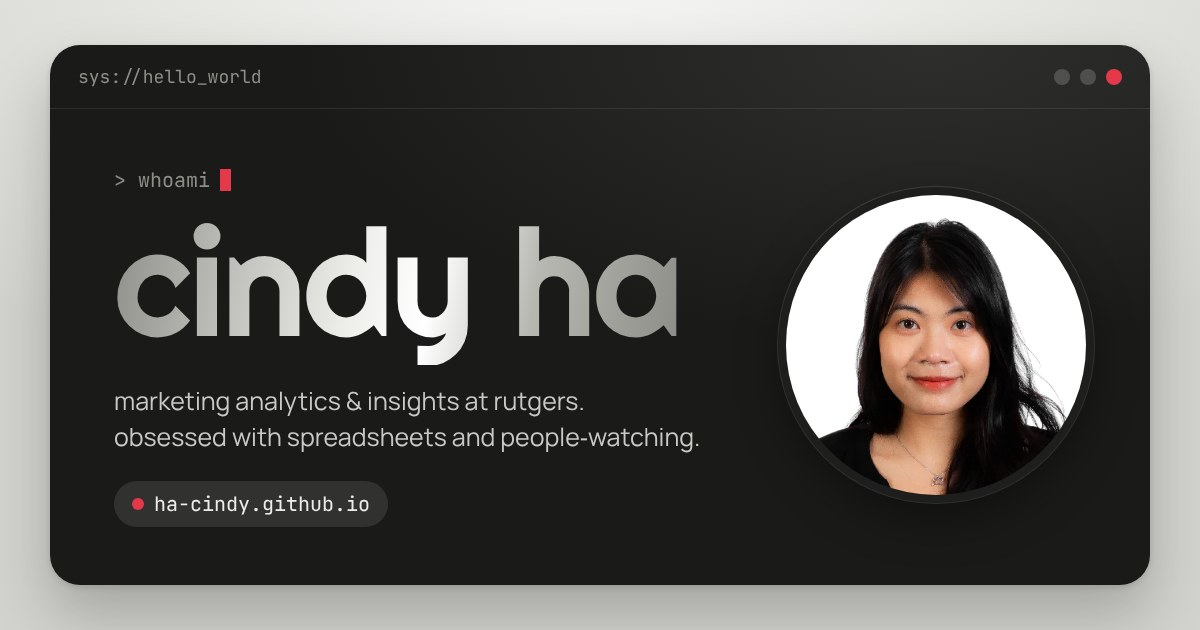
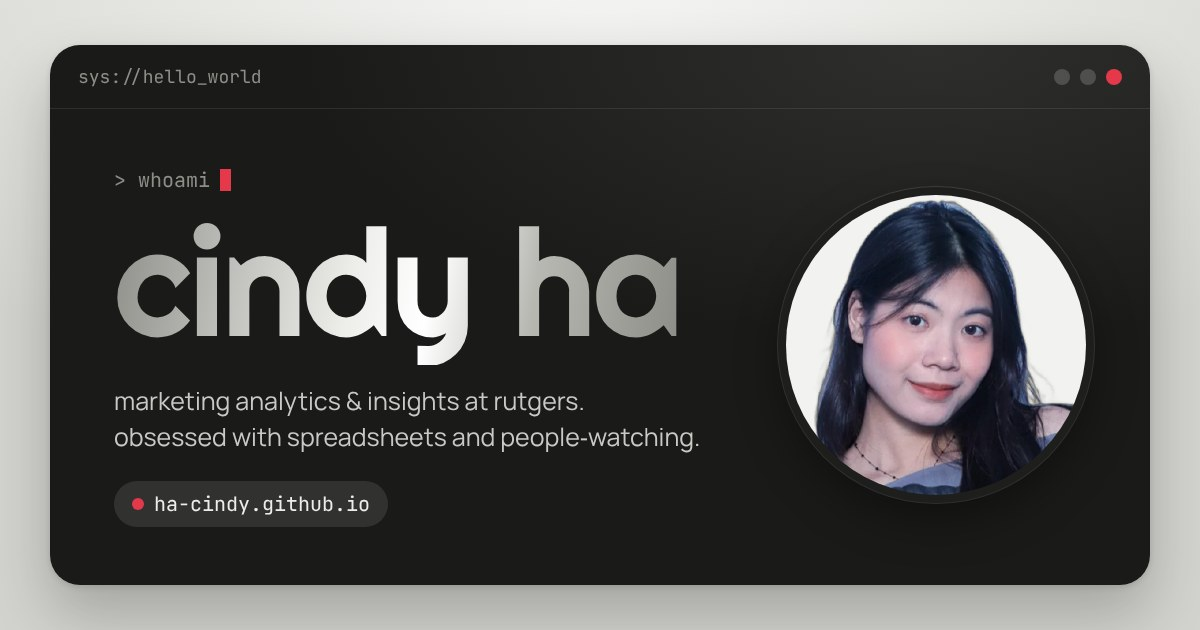
New headshot; Zuzu is now a white and grey cat with a red scarf
- New photo with the blue backdrop replaced by a soft off-white (clean
  cutout, edge spill removed, slightly warmed); hero and link preview
  image both use it
- Zuzu: white fur with grey patches, red scarf that flaps while she runs;
  faster follow and roam speed and quicker steps; sleep state unchanged

Claude-Session: https://claude.ai/code/session_01NYZvgzzkmfqJndcjzFSi4a

Changed region(s): [[0.6783, 0.3016, 0.8942, 0.7841]]

diff --git a/assets/js/site.js b/assets/js/site.js
@@ -69,23 +69,30 @@
   var zuzuBtn = document.querySelector('[data-zuzu-toggle]');
   var zuzuOn = store('zuzu') !== 'off' && !reduceMotion;
   var CAT_WALK = '<svg class="zuzu__walk" viewBox="0 0 48 36" aria-hidden="true">' +
-    '<path class="zuzu__tail" d="M10 19 C4 17 2 11 5 5" fill="none" stroke-width="3.2" stroke-linecap="round"/>' +
-    '<g class="zuzu__legs zuzu__legs--a"><rect x="13" y="22" width="3.4" height="11" rx="1.7"/><rect x="31" y="22" width="3.4" height="11" rx="1.7"/></g>' +
-    '<g class="zuzu__legs zuzu__legs--b"><rect x="17" y="22" width="3.4" height="11" rx="1.7"/><rect x="35" y="22" width="3.4" height="11" rx="1.7"/></g>' +
-    '<ellipse cx="24" cy="20" rx="15" ry="8"/>' +
-    '<circle cx="38.5" cy="12.5" r="7"/>' +
-    '<path d="M33 9 L34 1.5 L38.5 6.5 Z"/><path d="M39.5 6.2 L43.8 1.6 L44.6 9.4 Z"/>' +
-    '<path class="zuzu__collar" d="M33.4 17.6 Q37 20.6 41.6 18.4" fill="none" stroke-width="2.2" stroke-linecap="round"/>' +
-    '<circle class="zuzu__eye" cx="41.2" cy="11.6" r="1.1"/>' +
+    '<path class="zuzu__tail" d="M10 19 C3 17 1 10 5 4" fill="none" stroke-width="4" stroke-linecap="round"/>' +
+    '<g class="zuzu__legs zuzu__legs--a"><rect class="fur" x="13" y="22" width="3.6" height="11" rx="1.8"/><rect class="fur" x="31" y="22" width="3.6" height="11" rx="1.8"/></g>' +
+    '<g class="zuzu__legs zuzu__legs--b"><rect class="fur" x="17" y="22" width="3.6" height="11" rx="1.8"/><rect class="fur" x="35" y="22" width="3.6" height="11" rx="1.8"/></g>' +
+    '<ellipse class="fur" cx="24" cy="20" rx="15" ry="8"/>' +
+    '<path class="patch" d="M12 15 C15 11 24 11 28 13 C25 17 17 18 12 15 Z"/>' +
+    '<circle class="fur" cx="38.5" cy="12.5" r="7"/>' +
+    '<path class="patch" d="M33 9 L34 1.5 L38.5 6.5 Z"/><path class="patch" d="M39.5 6.2 L43.8 1.6 L44.6 9.4 Z"/>' +
+    '<path class="patch" d="M32.2 10.5 C33 6.4 36.6 5.5 39 6.4 C38 9 35 11 32.2 10.5 Z"/>' +
+    '<path class="zuzu__scarf" d="M32.6 17.2 Q37.4 21.4 42.4 17.8 L42.6 20 Q37.2 23.6 32.4 19.4 Z"/>' +
+    '<path class="zuzu__scarf zuzu__scarf-tail" d="M34.4 19.6 L31.6 26.4 L34.6 25.8 L36.6 20.6 Z"/>' +
+    '<circle class="zuzu__eye" cx="41.2" cy="11.6" r="1.1"/><circle class="zuzu__nose" cx="45.2" cy="13.8" r="0.8"/>' +
     '</svg>';
   var CAT_SIT = '<svg class="zuzu__sit" viewBox="0 0 48 36" aria-hidden="true">' +
-    '<path class="zuzu__tail" d="M33 33 C42 33 44 27 40 24" fill="none" stroke-width="3.2" stroke-linecap="round"/>' +
-    '<path d="M14 34 C12 24 16 16 24 16 C32 16 36 24 34 34 Z"/>' +
-    '<circle cx="24" cy="11" r="7"/>' +
-    '<path d="M18 8 L18.6 0.8 L23 5.4 Z"/><path d="M25 5.4 L29.4 0.8 L30 8 Z"/>' +
-    '<path class="zuzu__collar" d="M19.6 16.4 Q24 19 28.4 16.4" fill="none" stroke-width="2.2" stroke-linecap="round"/>' +
+    '<path class="zuzu__tail" d="M33 33 C43 33 44 26 39.5 23.5" fill="none" stroke-width="4" stroke-linecap="round"/>' +
+    '<path class="fur" d="M14 34 C12 24 16 16 24 16 C32 16 36 24 34 34 Z"/>' +
+    '<path class="patch" d="M27 18 C32 19 34.6 25 34 31 C31 29 28.4 23 27 18 Z"/>' +
+    '<circle class="fur" cx="24" cy="11" r="7"/>' +
+    '<path class="patch" d="M18 8 L18.6 0.8 L23 5.4 Z"/><path class="patch" d="M25 5.4 L29.4 0.8 L30 8 Z"/>' +
+    '<path class="patch" d="M24 4 C27.6 4 30.4 6.4 30.8 9.6 C28.4 9.4 25.6 7.6 24 4 Z"/>' +
+    '<path class="zuzu__scarf" d="M18.8 16 Q24 19.6 29.2 16 L29.6 18.4 Q24 22.4 18.4 18.4 Z"/>' +
+    '<path class="zuzu__scarf zuzu__scarf-tail" d="M26.4 19.6 L28.6 26.6 L25.6 26.2 L24.4 20.4 Z"/>' +
     '<circle class="zuzu__eye" cx="21.3" cy="10.4" r="1.05"/><circle class="zuzu__eye" cx="26.7" cy="10.4" r="1.05"/>' +
-    '<rect x="18.5" y="30" width="4" height="4" rx="2"/><rect x="25.5" y="30" width="4" height="4" rx="2"/>' +
+    '<circle class="zuzu__nose" cx="24" cy="12.6" r="0.8"/>' +
+    '<rect class="fur" x="18.5" y="30" width="4" height="4" rx="2"/><rect class="fur" x="25.5" y="30" width="4" height="4" rx="2"/>' +
     '</svg><span class="zuzu__z" aria-hidden="true">z</span>';
   var cat = null, raf = 0, cx = -80, cy = 0, tx = -80, ty = 0, lastMove = 0, roamTimer = 0, mode = finePointer ? 'follow' : 'roam';
 
@@ -96,7 +103,7 @@
   function followLoop() {
     var dx = tx - cx, dy = ty - cy, d = Math.hypot(dx, dy);
     if (d > 46) {
-      var sp = Math.min(4.2, 1.6 + d / 90);
+      var sp = Math.min(7.5, 2.8 + d / 55);
       cx += dx / d * sp; cy += dy / d * sp; face(dx); setState('walk');
     } else {
       setState(performance.now() - lastMove > 7000 ? 'sleep' : 'sit');
@@ -120,7 +127,7 @@
       if (!zuzuOn) return;
       if (!paused && ((dir > 0 && cx >= stopAt) || (dir < 0 && cx <= stopAt))) { paused = true; t0 = ts; setState('sit'); }
       if (paused && ts - t0 > 2600) { paused = false; stopAt = dir > 0 ? w + 60 : -60; }
-      if (!paused) { cx += dir * 1.6; setState('walk'); }
+      if (!paused) { cx += dir * 2.8; setState('walk'); }
       place();
       if ((dir > 0 && cx > w + 50) || (dir < 0 && cx < -50)) { roamTimer = setTimeout(roamOnce, 22000 + Math.random() * 16000); return; }
       raf = requestAnimationFrame(step);

diff --git a/assets/css/site.css b/assets/css/site.css
@@ -730,14 +730,18 @@ body { font-size: 15.5px; }
 .slides { grid-template-columns: repeat(auto-fill, minmax(min(100%, 210px), 1fr)); gap: 16px; }
 .footer { font-size: 12px; }
 
-/* zuzu the cat */
-.zuzu { position: fixed; left: 0; top: 0; width: 48px; height: 36px; z-index: 70; pointer-events: none; will-change: transform; --cat: #2B2B2A; --cat-eye: #F2F2EF; }
-@media (prefers-color-scheme: dark) { :root:not([data-theme="light"]) .zuzu { --cat: #D9D9D5; --cat-eye: #1B1B1A; } }
-:root[data-theme="dark"] .zuzu { --cat: #D9D9D5; --cat-eye: #1B1B1A; }
-.zuzu svg { position: absolute; inset: 0; width: 48px; height: 36px; fill: var(--cat); stroke: var(--cat); stroke-width: 0; overflow: visible; filter: drop-shadow(0 0 1px rgba(255,255,255,0.75)) drop-shadow(0 2px 2px rgba(0,0,0,0.18)); }
-.zuzu svg .zuzu__tail { stroke: var(--cat); }
-.zuzu svg .zuzu__collar { stroke: var(--red); fill: none; }
+/* zuzu the cat: white and grey, red scarf */
+.zuzu { position: fixed; left: 0; top: 0; width: 48px; height: 36px; z-index: 70; pointer-events: none; will-change: transform;
+  --fur: #FBFBF9; --patch: #9C9C97; --line: #6F6F6B; --cat-eye: #2B2B2A; }
+@media (prefers-color-scheme: dark) { :root:not([data-theme="light"]) .zuzu { --line: #3A3A38; } }
+:root[data-theme="dark"] .zuzu { --line: #3A3A38; }
+.zuzu svg { position: absolute; inset: 0; width: 48px; height: 36px; overflow: visible; filter: drop-shadow(0 2px 2px rgba(0,0,0,0.2)); }
+.zuzu svg .fur { fill: var(--fur); stroke: var(--line); stroke-width: 0.9; }
+.zuzu svg .patch { fill: var(--patch); stroke: none; }
+.zuzu svg .zuzu__tail { stroke: var(--patch); }
+.zuzu svg .zuzu__scarf { fill: var(--red); stroke: none; }
 .zuzu svg .zuzu__eye { fill: var(--cat-eye); }
+.zuzu svg .zuzu__nose { fill: #E58A93; }
 .zuzu.is-left svg { transform: scaleX(-1); }
 .zuzu .zuzu__sit, .zuzu .zuzu__z { display: none; }
 .zuzu[data-state="sit"] .zuzu__walk, .zuzu[data-state="sleep"] .zuzu__walk { display: none; }
@@ -745,10 +749,12 @@ body { font-size: 15.5px; }
 .zuzu[data-state="sleep"] .zuzu__eye { transform: scaleY(0.15); transform-box: fill-box; transform-origin: center; }
 .zuzu[data-state="sleep"] .zuzu__z { display: block; position: absolute; left: 30px; top: -8px; font-family: var(--f-mono); font-size: 11px; color: var(--muted); animation: zz 2s ease-in-out infinite; }
 @keyframes zz { 0% { opacity: 0; transform: translate(0, 4px); } 40% { opacity: 1; } 100% { opacity: 0; transform: translate(6px, -8px); } }
-.zuzu[data-state="walk"] .zuzu__legs--a { animation: legA 0.32s steps(2) infinite; }
-.zuzu[data-state="walk"] .zuzu__legs--b { animation: legA 0.32s steps(2) infinite reverse; }
-@keyframes legA { 0% { transform: translateY(0); } 100% { transform: translateY(-2.4px); } }
-.zuzu[data-state="walk"] .zuzu__walk { animation: bob 0.32s ease-in-out infinite alternate; }
+.zuzu[data-state="walk"] .zuzu__legs--a { animation: legA 0.2s steps(2) infinite; }
+.zuzu[data-state="walk"] .zuzu__legs--b { animation: legA 0.2s steps(2) infinite reverse; }
+@keyframes legA { 0% { transform: translateY(0); } 100% { transform: translateY(-2.6px); } }
+.zuzu[data-state="walk"] .zuzu__walk { animation: bob 0.2s ease-in-out infinite alternate; }
+.zuzu[data-state="walk"] .zuzu__scarf-tail { animation: flap 0.2s ease-in-out infinite alternate; transform-box: fill-box; transform-origin: 80% 0%; }
+@keyframes flap { from { transform: rotate(-10deg); } to { transform: rotate(14deg); } }
 @keyframes bob { from { translate: 0 0; } to { translate: 0 -1px; } }
 .zuzu[data-state="sit"] .zuzu__sit .zuzu__tail { animation: swish 1.6s ease-in-out infinite alternate; transform-box: fill-box; transform-origin: 0% 100%; }
 @keyframes swish { from { transform: rotate(-6deg); } to { transform: rotate(8deg); } }

diff --git a/layouts/index.html b/layouts/index.html
@@ -16,8 +16,8 @@
     </div>
     <div class="hero__aside">
       <figure class="avatar">
-        {{- with resources.Get "img/headshot.png" }}
-        {{- $img := (.Crop "930x930 Center").Resize "520x webp q84" }}
+        {{- with resources.Get "img/headshot-2026.png" }}
+        {{- $img := (.Crop "600x600 Center").Resize "520x webp q84" }}
         <img src="{{ $img.RelPermalink }}" width="220" height="220" alt="Portrait of Cindy Ha">
         {{- end }}
         <figcaption class="avatar__badge"><span class="dot" aria-hidden="true"></span>online</figcaption>
